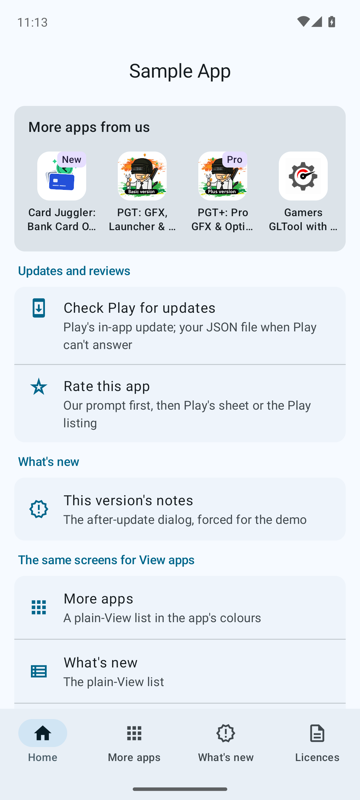
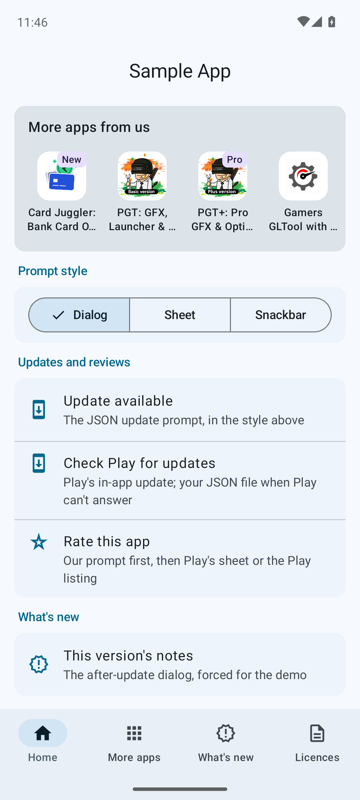
Update and review prompts as a dialog, a bottom sheet or a snackbar

diff --git a/kit-compose/src/main/java/inc/trilokia/publishly/kit/compose/Prompts.kt b/kit-compose/src/main/java/inc/trilokia/publishly/kit/compose/Prompts.kt
@@ -1,0 +1,169 @@
+package inc.trilokia.publishly.kit.compose
+
+import androidx.compose.foundation.layout.Arrangement
+import androidx.compose.foundation.layout.Column
+import androidx.compose.foundation.layout.Row
+import androidx.compose.foundation.layout.fillMaxWidth
+import androidx.compose.foundation.layout.padding
+import androidx.compose.material3.Button
+import androidx.compose.material3.ExperimentalMaterial3Api
+import androidx.compose.material3.MaterialTheme
+import androidx.compose.material3.ModalBottomSheet
+import androidx.compose.material3.SheetValue
+import androidx.compose.material3.SnackbarDuration
+import androidx.compose.material3.SnackbarHostState
+import androidx.compose.material3.SnackbarResult
+import androidx.compose.material3.Text
+import androidx.compose.material3.TextButton
+import androidx.compose.material3.rememberModalBottomSheetState
+import androidx.compose.runtime.Composable
+import androidx.compose.runtime.LaunchedEffect
+import androidx.compose.runtime.getValue
+import androidx.compose.runtime.remember
+import androidx.compose.ui.Alignment
+import androidx.compose.ui.Modifier
+import androidx.compose.ui.platform.LocalContext
+import androidx.compose.ui.res.stringResource
+import androidx.compose.ui.unit.dp
+import androidx.lifecycle.compose.collectAsStateWithLifecycle
+import inc.trilokia.publishly.kit.R
+import inc.trilokia.publishly.kit.review.ReviewAsk
+import inc.trilokia.publishly.kit.review.ReviewAsk.Answer
+import inc.trilokia.publishly.kit.update.JsonUpdates
+import inc.trilokia.publishly.kit.update.UpdateInfo
+
+/**
+ * How a prompt reaches the user. [Dialog] is the default. [Snackbar] needs the app's
+ * `SnackbarHostState` (the one its Scaffold draws); without one the prompt falls back to a dialog.
+ */
+enum class Presentation { Dialog, BottomSheet, Snackbar }
+
+/**
+ * The "update available" prompt for a JSON update, in the chosen [presentation]. [onDismiss]
+ * runs when the user puts it away ("Later", a swipe, the snackbar timing out) or after "Update".
+ * [UpdateFlow] shows this for you; use it directly when you drive the check yourself.
+ */
+@Composable
+fun UpdatePrompt(
+    info: UpdateInfo,
+    presentation: Presentation = Presentation.Dialog,
+    cancelable: Boolean = true,
+    snackbarHostState: SnackbarHostState? = null,
+    onDismiss: () -> Unit,
+) {
+    when (presentation) {
+        Presentation.Dialog -> UpdateDialog(info, onDismiss, cancelable)
+        Presentation.BottomSheet -> UpdateSheet(info, onDismiss, cancelable)
+        Presentation.Snackbar -> {
+            if (snackbarHostState == null) {
+                UpdateDialog(info, onDismiss, cancelable)
+                return
+            }
+            val context = LocalContext.current
+            val message = stringResource(R.string.kit_update_version, info.versionName)
+            val action = stringResource(R.string.kit_update_now)
+            LaunchedEffect(info) {
+                val result = snackbarHostState.showSnackbar(
+                    message = message,
+                    actionLabel = action,
+                    withDismissAction = cancelable,
+                    duration = if (cancelable) SnackbarDuration.Long else SnackbarDuration.Indefinite,
+                )
+                if (result == SnackbarResult.ActionPerformed) JsonUpdates.open(context, info.url)
+                onDismiss()
+            }
+        }
+    }
+}
+
+/** The bottom-sheet version of the update prompt: title, release notes, Later / Update. */
+@OptIn(ExperimentalMaterial3Api::class)
+@Composable
+fun UpdateSheet(info: UpdateInfo, onDismiss: () -> Unit, cancelable: Boolean = true) {
+    val context = LocalContext.current
+    val state = rememberModalBottomSheetState(
+        skipPartiallyExpanded = true,
+        confirmValueChange = { cancelable || it != SheetValue.Hidden },
+    )
+    ModalBottomSheet(onDismissRequest = { if (cancelable) onDismiss() }, sheetState = state) {
+        Column(
+            Modifier.fillMaxWidth().padding(start = 24.dp, end = 24.dp, bottom = 24.dp),
+            verticalArrangement = Arrangement.spacedBy(12.dp),
+        ) {
+            Text(stringResource(R.string.kit_update_title), style = MaterialTheme.typography.titleLarge)
+            Text(
+                info.releaseNotes.ifBlank { stringResource(R.string.kit_update_version, info.versionName) },
+                style = MaterialTheme.typography.bodyMedium,
+            )
+            Row(Modifier.fillMaxWidth(), horizontalArrangement = Arrangement.spacedBy(8.dp, Alignment.End)) {
+                if (cancelable) TextButton(onClick = onDismiss) { Text(stringResource(R.string.kit_update_later)) }
+                Button(onClick = { JsonUpdates.open(context, info.url) }) { Text(stringResource(R.string.kit_update_now)) }
+            }
+        }
+    }
+}
+
+/**
+ * Our own "Enjoying the app?" prompt in the chosen [presentation], shown while [ReviewAsk.prompt]
+ * is true (after [ReviewAsk.requestIfDue] or [ReviewAsk.requestPrompt]). The snackbar has room
+ * for "Rate it" only: putting it away counts as "Not now".
+ */
+@Composable
+fun ReviewPrompt(
+    reviewAsk: ReviewAsk,
+    presentation: Presentation = Presentation.Dialog,
+    snackbarHostState: SnackbarHostState? = null,
+) {
+    when (presentation) {
+        Presentation.Dialog -> ReviewPromptDialog(reviewAsk)
+        Presentation.BottomSheet -> ReviewPromptSheet(reviewAsk)
+        Presentation.Snackbar -> {
+            if (snackbarHostState == null) {
+                ReviewPromptDialog(reviewAsk)
+                return
+            }
+            val visible by reviewAsk.prompt.collectAsStateWithLifecycle()
+            if (!visible) return
+            val context = LocalContext.current
+            val activity = remember(context) { context.findActivity() }
+            val appName = remember(context) { context.applicationInfo.loadLabel(context.packageManager).toString() }
+            val message = stringResource(R.string.kit_review_title, appName)
+            val action = stringResource(R.string.kit_review_rate)
+            LaunchedEffect(visible) {
+                val result = snackbarHostState.showSnackbar(
+                    message = message,
+                    actionLabel = action,
+                    withDismissAction = true,
+                    duration = SnackbarDuration.Long,
+                )
+                reviewAsk.answer(activity, if (result == SnackbarResult.ActionPerformed) Answer.RATE else Answer.LATER)
+            }
+        }
+    }
+}
+
+/** The bottom-sheet version of the review prompt, with all three answers. */
+@OptIn(ExperimentalMaterial3Api::class)
+@Composable
+fun ReviewPromptSheet(reviewAsk: ReviewAsk) {
+    val visible by reviewAsk.prompt.collectAsStateWithLifecycle()
+    if (!visible) return
+    val context = LocalContext.current
+    val activity = remember(context) { context.findActivity() }
+    val appName = remember(context) { context.applicationInfo.loadLabel(context.packageManager).toString() }
+    val state = rememberModalBottomSheetState(skipPartiallyExpanded = true)
+    ModalBottomSheet(onDismissRequest = { reviewAsk.answer(activity, Answer.LATER) }, sheetState = state) {
+        Column(
+            Modifier.fillMaxWidth().padding(start = 24.dp, end = 24.dp, bottom = 24.dp),
+            verticalArrangement = Arrangement.spacedBy(12.dp),
+        ) {
+            Text(stringResource(R.string.kit_review_title, appName), style = MaterialTheme.typography.titleLarge)
+            Text(stringResource(R.string.kit_review_message), style = MaterialTheme.typography.bodyMedium)
+            Row(Modifier.fillMaxWidth(), horizontalArrangement = Arrangement.spacedBy(8.dp, Alignment.End)) {
+                TextButton(onClick = { reviewAsk.answer(activity, Answer.NEVER) }) { Text(stringResource(R.string.kit_review_never)) }
+                TextButton(onClick = { reviewAsk.answer(activity, Answer.LATER) }) { Text(stringResource(R.string.kit_review_later)) }
+                Button(onClick = { reviewAsk.answer(activity, Answer.RATE) }) { Text(stringResource(R.string.kit_review_rate)) }
+            }
+        }
+    }
+}

diff --git a/sample/src/main/java/inc/trilokia/publishly/kit/sample/MainActivity.kt b/sample/src/main/java/inc/trilokia/publishly/kit/sample/MainActivity.kt
@@ -41,6 +41,8 @@ import androidx.compose.material3.Scaffold
 import androidx.compose.material3.SegmentedButton
 import androidx.compose.material3.SegmentedButtonDefaults
 import androidx.compose.material3.SingleChoiceSegmentedButtonRow
+import androidx.compose.material3.SnackbarHost
+import androidx.compose.material3.SnackbarHostState
 import androidx.compose.material3.Text
 import androidx.compose.material3.TopAppBarDefaults
 import androidx.compose.runtime.Composable
@@ -61,14 +63,17 @@ import inc.trilokia.publishly.kit.compose.MoreAppsList
 import inc.trilokia.publishly.kit.compose.MoreAppsRow
 import inc.trilokia.publishly.kit.compose.OpenSourceLayout
 import inc.trilokia.publishly.kit.compose.OpenSourceScreen
-import inc.trilokia.publishly.kit.compose.ReviewPromptDialog
+import inc.trilokia.publishly.kit.compose.Presentation
+import inc.trilokia.publishly.kit.compose.ReviewPrompt
 import inc.trilokia.publishly.kit.compose.UpdateFlow
+import inc.trilokia.publishly.kit.compose.UpdatePrompt
 import inc.trilokia.publishly.kit.compose.UpdateReadyBar
 import inc.trilokia.publishly.kit.compose.WhatsNewDialog
 import inc.trilokia.publishly.kit.compose.WhatsNewList
 import inc.trilokia.publishly.kit.oss.OpenSource
 import inc.trilokia.publishly.kit.promo.AppPromos
 import inc.trilokia.publishly.kit.review.ReviewAsk
+import inc.trilokia.publishly.kit.update.UpdateInfo
 import inc.trilokia.publishly.kit.update.Updates
 import inc.trilokia.publishly.kit.whatsnew.WhatsNew
 import inc.trilokia.publishly.kit.whatsnew.WhatsNewSource
@@ -118,21 +123,30 @@ class MainActivity : ComponentActivity() {
                 var tab by rememberSaveable { mutableStateOf(Tab.HOME) }
                 BackHandler(enabled = tab != Tab.HOME) { tab = Tab.HOME }
                 val scope = rememberCoroutineScope()
+                val snackbarHost = remember { SnackbarHostState() }
+                // Dialog, bottom sheet or snackbar, for the update and review prompts (the Home switch)
+                var presentation by rememberSaveable { mutableIntStateOf(0) }
+                val style = Presentation.entries[presentation]
 
                 // Dialogs take turns: the update flow first, then the featured app
                 var updatesSettled by remember { mutableStateOf(false) }
-                UpdateFlow(updates) { updatesSettled = true }
+                UpdateFlow(updates, presentation = style, snackbarHostState = snackbarHost) { updatesSettled = true }
                 if (updatesSettled) FeaturedPromoDialog(promos)
                 // Shows once after a versionCode change (never on the first run); nothing otherwise
                 WhatsNewDialog(whatsNew)
                 // Our own "Enjoying the app?" prompt; shows itself after reviewAsk.requestIfDue()
-                ReviewPromptDialog(reviewAsk)
+                ReviewPrompt(reviewAsk, presentation = style, snackbarHostState = snackbarHost)
+                // The update prompt again, on demand, to show the chosen style
+                var forcedUpdate by remember { mutableStateOf<UpdateInfo?>(null) }
+                forcedUpdate?.let { UpdatePrompt(it, style, snackbarHostState = snackbarHost, onDismiss = { forcedUpdate = null }) }
 
                 Scaffold(
+                    snackbarHost = { SnackbarHost(snackbarHost) },
                     topBar = {
                         CenterAlignedTopAppBar(
                             title = { Text(if (tab == Tab.HOME) "Sample App" else tab.label) },
-                            colors = TopAppBarDefaults.topAppBarColors(containerColor = Color.Transparent),
+                            // Opaque, so the list doesn't show through the title when it scrolls under the bar
+                            colors = TopAppBarDefaults.topAppBarColors(containerColor = MaterialTheme.colorScheme.background),
                         )
                     },
                     bottomBar = {
@@ -155,6 +169,9 @@ class MainActivity : ComponentActivity() {
                         Tab.HOME -> HomeScreen(
                             padding = padding,
                             promos = promos,
+                            presentation = presentation,
+                            onPresentation = { presentation = it },
+                            onUpdatePrompt = { scope.launch { forcedUpdate = updates.json?.check() } },
                             onCheckUpdate = { updates.play.checkNow { toast("Play update: $it") } },
                             onReview = {
                                 reviewAsk.recordEvent()
@@ -184,6 +201,9 @@ class MainActivity : ComponentActivity() {
 private fun HomeScreen(
     padding: PaddingValues,
     promos: AppPromos,
+    presentation: Int,
+    onPresentation: (Int) -> Unit,
+    onUpdatePrompt: () -> Unit,
     onCheckUpdate: () -> Unit,
     onReview: () -> Unit,
     onWhatsNewDialog: () -> Unit,
@@ -203,7 +223,14 @@ private fun HomeScreen(
         // The own-apps row: from the JSON feed, minus whatever this phone already has
         item { MoreAppsRow(promos, Modifier.fillMaxWidth()) }
         item {
+            Section("Prompt style") {
+                Choices(listOf("Dialog", "Sheet", "Snackbar"), presentation, onPresentation)
+            }
+        }
+        item {
             Section("Updates and reviews") {
+                ActionRow(Icons.Outlined.SystemUpdate, "Update available", "The JSON update prompt, in the style above", onUpdatePrompt)
+                HorizontalDivider()
                 ActionRow(Icons.Outlined.SystemUpdate, "Check Play for updates", "Play's in-app update; your JSON file when Play can't answer", onCheckUpdate)
                 HorizontalDivider()
                 ActionRow(Icons.Outlined.StarRate, "Rate this app", "Our prompt first, then Play's sheet or the Play listing", onReview)

diff --git a/kit-compose/src/main/java/inc/trilokia/publishly/kit/compose/UpdateUi.kt b/kit-compose/src/main/java/inc/trilokia/publishly/kit/compose/UpdateUi.kt
@@ -5,6 +5,7 @@ import androidx.compose.foundation.layout.fillMaxWidth
 import androidx.compose.foundation.layout.padding
 import androidx.compose.material3.AlertDialog
 import androidx.compose.material3.MaterialTheme
+import androidx.compose.material3.SnackbarHostState
 import androidx.compose.material3.Surface
 import androidx.compose.material3.Text
 import androidx.compose.material3.TextButton
@@ -30,12 +31,19 @@ import inc.trilokia.publishly.kit.update.Updates
 /**
  * The whole update flow for a Compose app: runs [Updates.check] once (Play first, the JSON file
  * when Play can't answer) and shows the update dialog when the JSON file is the one with news.
- * Play's side needs nothing here beyond [UpdateReadyBar]. [onSettled] fires once there is nothing
+ * Play's side needs nothing here beyond [UpdateReadyBar]. [presentation] picks a dialog, a bottom sheet
+ * or a snackbar (which needs the app's [snackbarHostState]). [onSettled] fires once there is nothing
  * (more) to show: at once for Play outcomes, after "Later" for the dialog. Use it to queue the
  * next start-up dialog (the featured app, what's new) behind this one.
  */
 @Composable
-fun UpdateFlow(updates: Updates, cancelable: Boolean = true, onSettled: () -> Unit = {}) {
+fun UpdateFlow(
+    updates: Updates,
+    cancelable: Boolean = true,
+    presentation: Presentation = Presentation.Dialog,
+    snackbarHostState: SnackbarHostState? = null,
+    onSettled: () -> Unit = {},
+) {
     val settled by rememberUpdatedState(onSettled)
     var pending by remember(updates) { mutableStateOf<UpdateInfo?>(null) }
     LaunchedEffect(updates) {
@@ -43,7 +51,7 @@ fun UpdateFlow(updates: Updates, cancelable: Boolean = true, onSettled: () -> Un
         if (outcome is Updates.Outcome.JsonUpdate) pending = outcome.info else settled()
     }
     pending?.let { info ->
-        UpdateDialog(info, cancelable = cancelable, onDismiss = { pending = null; settled() })
+        UpdatePrompt(info, presentation, cancelable, snackbarHostState, onDismiss = { pending = null; settled() })
     }
 }
 

diff --git a/kit-compose/src/main/java/inc/trilokia/publishly/kit/compose/ReviewUi.kt b/kit-compose/src/main/java/inc/trilokia/publishly/kit/compose/ReviewUi.kt
@@ -46,7 +46,7 @@ fun ReviewPromptDialog(reviewAsk: ReviewAsk) {
     )
 }
 
-private tailrec fun Context.findActivity(): Activity? = when (this) {
+internal tailrec fun Context.findActivity(): Activity? = when (this) {
     is Activity -> this
     is ContextWrapper -> baseContext.findActivity()
     else -> null

diff --git a/README.md b/README.md
@@ -183,8 +183,10 @@ flowchart TD
 updates = Updates(this, jsonUrl = "https://www.example.com/update.json")   // in onCreate; jsonUrl may be null
 // bundledJson = assets.open("update.json")...: a copy shipped in the app, used until the server has answered once
 
-// Compose: the dialog when the JSON file has news, nothing otherwise; onSettled queues the next dialog
+// Compose: the prompt when the JSON file has news, nothing otherwise; onSettled queues the next dialog
 UpdateFlow(updates) { /* settled */ }
+UpdateFlow(updates, presentation = Presentation.BottomSheet)                               // or a sheet...
+UpdateFlow(updates, presentation = Presentation.Snackbar, snackbarHostState = snackbarHost) // ...or a snackbar
 Scaffold(bottomBar = { UpdateReadyBar(updates) }) { ... }
 
 // View: one suspend call tells you what happened
@@ -269,7 +271,9 @@ flowchart TD
 val reviewAsk = ReviewAsk(context)
 
 // Compose: the prompt lives in the composition and shows itself when asked
-ReviewPromptDialog(reviewAsk)
+ReviewPromptDialog(reviewAsk)                                                                // a dialog...
+ReviewPrompt(reviewAsk, presentation = Presentation.BottomSheet)                             // ...a sheet...
+ReviewPrompt(reviewAsk, presentation = Presentation.Snackbar, snackbarHostState = snackbarHost) // ...or a snackbar: "Rate it" only, putting it away is "Not now"
 // ...after the app has just been useful (settings applied, a result found, a file saved...)
 reviewAsk.recordEvent()
 reviewAsk.requestIfDue()
@@ -471,6 +475,15 @@ OpenSourceScreen(
 )
 ```
 
+Prompts can be a dialog, a bottom sheet or a snackbar: `UpdateFlow`, `UpdatePrompt` and `ReviewPrompt` take a `presentation` (`Presentation.Dialog`, `BottomSheet`, `Snackbar`; the snackbar needs your Scaffold's `SnackbarHostState`, and falls back to a dialog without one).
+
+<p>
+<img src="docs/screenshots/update-sheet.png" width="160" alt="The update prompt as a bottom sheet">
+<img src="docs/screenshots/review-sheet.png" width="160" alt="The review prompt as a bottom sheet">
+<img src="docs/screenshots/update-snackbar.png" width="160" alt="The update prompt as a snackbar">
+<img src="docs/screenshots/review-snackbar.png" width="160" alt="The review prompt as a snackbar">
+</p>
+
 Layouts change the arrangement rather than the look. Both lists take a `layout`:
 
 ```kotlin
@@ -507,7 +520,9 @@ The sample's More apps and Licences tabs have a switch for every layout. The pla
 | --- | --- |
 | Home: "More apps from us" row | `MoreAppsRow` |
 | Home: Check Play for updates | `updates.play.checkNow`, reports the result in a toast |
-| Home: Rate this app | `ReviewAsk`, always due here: our prompt, then Play's sheet or the Play listing |
+| Home: Prompt style | Dialog, bottom sheet or snackbar for the two prompts below |
+| Home: Update available | `UpdatePrompt` with the bundled update file, in the chosen style |
+| Home: Rate this app | `ReviewAsk`, always due here: our prompt (in the chosen style), then Play's sheet or the Play listing |
 | Home: This version's notes | `whatsNew.showDialog`, forced, so it shows every time |
 | Home: the View rows | `promos.openList`, `whatsNew.openList`, `OpenSource.open`: the plain-View screens in the app's colours |
 | More apps tab | `MoreAppsList` |
